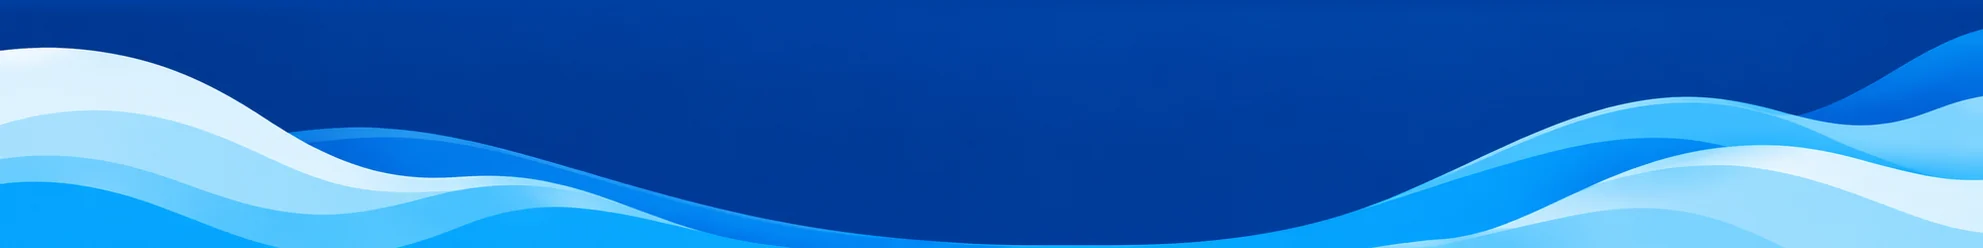
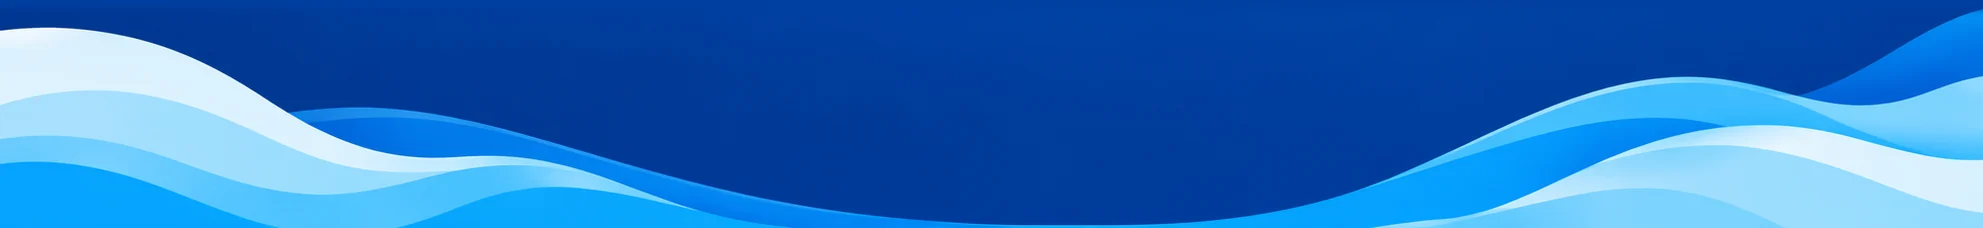
ลดความสูงแถบท้ายเว็บ และเปลี่ยนหัวเรื่องเป็นซานเซอริฟหนา
แถบบนของท้ายเว็บสูง 396px บนจอ 1440 ซึ่งกินพื้นที่เกินความจำเป็น วัดแล้วพบว่า
ส่วนที่ไม่ได้ทำงานคือท้องฟ้าเหนือกลุ่มเมฆ กับน้ำเงินเรียบใต้คลื่นที่ยาวลงไปอีก
140px ทั้งที่สีพื้นของท้ายเว็บรับช่วงต่อได้อยู่แล้ว

ตัดใหม่ตัดทั้งสองส่วนออก แถบบนเหลือ 261px (ลด 34%) แถบล่าง 166px ภาพถ่าย
ภูเขา พระอาทิตย์ และยอยักษ์ยังอยู่ครบ ไม่ได้ครอปตอนแสดงผล จึงไม่มีจอไหนเห็น
ภาพไม่ครบ และเก็บระยะในเนื้อหาท้ายเว็บให้กระชับขึ้นด้วย รวมท้ายเว็บลดจาก 1215
เหลือ 1006px

หัวเรื่องย้ายจาก Noto Serif Thai ไปเป็น IBM Plex Sans Thai น้ำหนัก 600 ซึ่ง
เป็นฟอนต์เดียวกับเนื้อความอยู่แล้ว ทั้งเว็บจึงเหลือตระกูลเดียว และเลิกส่งฟอนต์
เซอริฟสองน้ำหนักที่ไม่มีใครอ้างถึงอีกต่อไป

ผูกชื่อฟอนต์ไว้ในตัวแปร --font-display แทนการเขียนชื่อฟอนต์ซ้ำ 14 จุด ถ้าวัน
หลังอยากลองฟอนต์อื่นจะได้แก้ที่เดียว

59 browser tests + 9 unit tests ผ่าน · axe ไม่มีข้อผิดพลาด

diff --git a/src/app/globals.css b/src/app/globals.css
@@ -48,6 +48,11 @@
   --rule-strong: #b0d0e8;
   --rule-dark: rgba(243, 250, 254, 0.18);
 
+  /* Type — one family throughout, with the display weight carrying the headings.
+     The serif it replaces read as an archive; this reads as the reference. */
+  --font-body: "IBM Plex Sans Thai", "Noto Sans Thai", sans-serif;
+  --font-display: "IBM Plex Sans Thai", "Noto Sans Thai", sans-serif;
+
   /* Shape — the reference rounds every surface and floats it on a soft shadow. */
   --radius: 1rem;
   --radius-sm: .55rem;
@@ -102,7 +107,7 @@ img, svg, video { max-width: 100%; }
 [data-theme="dark"] :focus-visible, .on-dark :focus-visible { outline-color: var(--craft); }
 
 h1, h2, h3, h4, p, figure, dl, dd { margin: 0; }
-h1, h2, h3 { font-family: "Noto Serif Thai", serif; font-weight: 500; }
+h1, h2, h3 { font-family: var(--font-display); font-weight: 600; letter-spacing: -.01em; }
 /* Thai tone and vowel marks stack above and below the baseline, so display line-height
    stays near 1.15 rather than the 0.98 a Latin face would take. */
 h1 { font-size: clamp(2.75rem, 6.5vw, 6rem); line-height: 1.15; letter-spacing: -.02em; }
@@ -218,7 +223,7 @@ body:has(.home-page) .header-spacer { display: none; }
 .wordmark {
   display: inline-flex; flex-direction: column; justify-content: center;
   min-height: 44px; text-decoration: none;
-  font-family: "Noto Serif Thai", serif; font-size: 1.375rem; font-weight: 500; line-height: 1.25;
+  font-family: var(--font-display); font-size: 1.375rem; font-weight: 500; line-height: 1.25;
   letter-spacing: -.01em;
 }
 .wordmark small {
@@ -271,7 +276,7 @@ body:has(.home-page) .header-spacer { display: none; }
 .site-menu-group a {
   display: flex; min-height: 56px; align-items: center; justify-content: space-between; gap: 1rem;
   padding-block: .35rem; border-bottom: 1px solid var(--rule-dark);
-  font-family: "Noto Serif Thai", serif; font-size: clamp(1.375rem, 3.5vw, 1.875rem);
+  font-family: var(--font-display); font-size: clamp(1.375rem, 3.5vw, 1.875rem);
   text-decoration: none;
 }
 .site-menu-group a svg { width: 1.1rem; height: 1.1rem; color: var(--craft); flex: 0 0 auto; }
@@ -316,22 +321,22 @@ body:has(.home-page) .header-spacer { display: none; }
 /* Aspect ratios are the images' own, so each band keeps its proportions at every width
    instead of being squashed by a fixed height. */
 .site-footer-band {
-  aspect-ratio: 1983 / 545;
+  aspect-ratio: 1983 / 360;
   background-image: url("/decor/footer-top.webp");
 }
 .site-footer-foot {
-  aspect-ratio: 1983 / 248;
+  aspect-ratio: 1983 / 228;
   background-image: url("/decor/footer-bottom.webp");
   background-position: center top;
 }
-.site-footer > .shell { padding-block: clamp(2rem, 4vw, 3.5rem) clamp(2rem, 4vw, 3rem); }
+.site-footer > .shell { padding-block: clamp(1.75rem, 3vw, 2.5rem) clamp(1.5rem, 3vw, 2.25rem); }
 
 .site-footer-grid {
   display: grid; grid-template-columns: 1fr; gap: 2.5rem;
-  padding-bottom: 2.5rem; border-bottom: 1px solid var(--rule-dark);
+  padding-bottom: 2rem; border-bottom: 1px solid var(--rule-dark);
 }
 .site-footer-brand p { margin-top: .5rem; color: var(--on-dark-muted); font-size: .9375rem; }
-.site-footer-brand strong { font-family: "Noto Serif Thai", serif; font-size: 1.375rem; font-weight: 500; }
+.site-footer-brand strong { font-family: var(--font-display); font-size: 1.375rem; font-weight: 500; }
 .site-footer nav { display: grid; gap: .1rem; align-content: start; }
 .site-footer nav p { margin-bottom: .6rem; color: var(--craft); font-size: .75rem; letter-spacing: .1em; }
 .site-footer nav a {
@@ -341,7 +346,7 @@ body:has(.home-page) .header-spacer { display: none; }
 .site-footer nav a:hover { color: var(--craft); text-decoration: underline; }
 .site-footer-partners {
   display: grid; gap: .75rem;
-  padding-top: 2rem;
+  padding-top: 1.5rem;
 }
 .site-footer-partners-label { color: var(--craft); font-size: .75rem; letter-spacing: .14em; }
 .site-footer-partners ul {
@@ -349,7 +354,7 @@ body:has(.home-page) .header-spacer { display: none; }
   margin: 0; padding: 0; list-style: none;
 }
 .site-footer-partners li {
-  font-family: "Noto Serif Thai", serif; font-size: 1.0625rem; color: var(--on-dark);
+  font-family: var(--font-display); font-size: 1.0625rem; color: var(--on-dark);
 }
 /* The district centre sits under the provincial office; naming one without the other
    credits the wrong body. */
@@ -359,7 +364,7 @@ body:has(.home-page) .header-spacer { display: none; }
   font-size: .8125rem; color: var(--on-dark-muted);
 }
 .site-footer-legal {
-  display: grid; gap: .5rem; margin-top: 2rem; padding-top: 1.75rem;
+  display: grid; gap: .5rem; margin-top: 1.5rem; padding-top: 1.25rem;
   border-top: 1px solid var(--rule-dark);
   color: var(--on-dark-muted); font-size: .8125rem; line-height: 1.7;
 }
@@ -403,7 +408,7 @@ body:has(.home-page) .header-spacer { display: none; }
 .boat-intro, .explorer { width: min(100% - 3rem, 76rem); margin-inline: auto; }
 .boat-intro { max-width: 58rem; margin-left: max(1.5rem, calc((100% - 76rem) / 2)); }
 .boat-intro > p:not(.eyebrow, .demo-notice) { max-width: 48rem; color: var(--muted); }
-.boat-concept { margin-block: 1rem; font-family: "Noto Serif Thai", serif; font-size: clamp(1.2rem, 2.5vw, 1.75rem); color: var(--accent-text) !important; }
+.boat-concept { margin-block: 1rem; font-family: var(--font-display); font-size: clamp(1.2rem, 2.5vw, 1.75rem); color: var(--accent-text) !important; }
 .demo-notice { display: inline-block; margin-top: 1.5rem; padding: .35rem .7rem; border: 1px solid var(--rule); color: var(--muted); font-size: .8rem; }
 .explorer { margin-top: clamp(4rem, 9vw, 8rem); }
 .explorer-heading { display: grid; grid-template-columns: minmax(14rem, .7fr) 1fr; gap: clamp(1.5rem, 5vw, 7rem); align-items: end; margin-bottom: 1.75rem; }
@@ -432,7 +437,7 @@ body:has(.home-page) .header-spacer { display: none; }
 .panel-close svg { width: 1.15rem; }
 .panel-image { position: relative; aspect-ratio: 16 / 9; margin-bottom: 1.75rem; overflow: hidden; background: var(--surface-warm); }
 .panel-image img { object-fit: cover; }
-.panel-inner h3 { font-family: "Noto Serif Thai", serif; font-size: clamp(1.75rem, 4vw, 2.5rem); font-weight: 500; line-height: 1.45; }
+.panel-inner h3 { font-family: var(--font-display); font-size: clamp(1.75rem, 4vw, 2.5rem); font-weight: 500; line-height: 1.45; }
 .panel-description { margin-top: .75rem; color: var(--muted); }
 .panel-section { margin-top: 2rem; padding-top: 1.25rem; border-top: 1px solid var(--rule); }
 .panel-section h4 { margin: 0 0 .7rem; font-size: .75rem; font-weight: 500; letter-spacing: .06em; color: var(--accent-text); }
@@ -476,7 +481,7 @@ body:has(.home-page) .header-spacer { display: none; }
 .timeline-image img { object-fit: cover; transition: transform .5s ease; }
 .timeline-entry:hover .timeline-image img { transform: scale(1.015); }
 .step-number, .section-kicker { color: var(--accent-text); font-size: .75rem; letter-spacing: .07em; }
-.timeline-copy h3 { margin: .25rem 0 .65rem; font-family: "Noto Serif Thai", serif; font-size: clamp(1.55rem, 3vw, 2.2rem); font-weight: 500; line-height: 1.5; }
+.timeline-copy h3 { margin: .25rem 0 .65rem; font-family: var(--font-display); font-size: clamp(1.55rem, 3vw, 2.2rem); font-weight: 500; line-height: 1.5; }
 .timeline-copy > p:not(.step-number) { color: var(--muted); }
 .step-glance { display: grid; grid-template-columns: 1fr 1fr; gap: 1rem; margin: 1.25rem 0 0; padding-top: 1rem; border-top: 1px solid var(--rule); }
 .step-glance dt { color: var(--accent-text); font-size: .7rem; }
@@ -496,7 +501,7 @@ body:has(.home-page) .header-spacer { display: none; }
 .step-hero-image figcaption { position: absolute; right: .75rem; bottom: .6rem; padding: .2rem .5rem; background: rgba(6,48,111,.88); color: #fff; font-size: .68rem; }
 .step-content-grid { display: grid; grid-template-columns: minmax(14rem, .6fr) 1.6fr; gap: clamp(3rem, 8vw, 9rem); margin-top: clamp(5rem, 10vw, 9rem); }
 .step-context { align-self: start; position: sticky; top: 2rem; padding-top: 1.25rem; border-top: 2px solid var(--accent); }
-.step-context > p:last-child { font-family: "Noto Serif Thai", serif; font-size: clamp(1.2rem, 2vw, 1.55rem); line-height: 1.9; }
+.step-context > p:last-child { font-family: var(--font-display); font-size: clamp(1.2rem, 2vw, 1.55rem); line-height: 1.9; }
 .step-main-content { min-width: 0; }
 .step-section + .step-section { margin-top: clamp(4rem, 9vw, 7rem); }
 .step-section > h2 { margin: .2rem 0 1.5rem; font-size: clamp(1.8rem, 4vw, 3rem); line-height: 1.45; }
@@ -529,7 +534,7 @@ body:has(.home-page) .header-spacer { display: none; }
 .knowledge-connections a { position: relative; display: grid; min-height: 10rem; align-content: end; padding: 1.25rem; background: var(--paper); text-decoration: none; }
 .knowledge-connections a:hover { background: var(--surface-warm); }
 .knowledge-connections span { color: var(--accent-text); font-size: .72rem; }
-.knowledge-connections strong { margin-top: .35rem; font-family: "Noto Serif Thai", serif; font-size: 1.25rem; font-weight: 500; }
+.knowledge-connections strong { margin-top: .35rem; font-family: var(--font-display); font-size: 1.25rem; font-weight: 500; }
 .knowledge-connections small { color: var(--muted); }
 .knowledge-connections svg { position: absolute; top: 1rem; right: 1rem; width: 1rem; }
 .inline-empty { color: var(--muted); }
@@ -756,7 +761,7 @@ body:has(.login-page) > .site-header, body:has(.login-page) > .site-footer, body
 .storage-card[data-level="warn"] .storage-status { color:#8a5a00; }
 .storage-card[data-level="danger"] .storage-status { color:#9a3412; }
 
-.storage-figure { margin-top:1rem; font-family:"Noto Serif Thai",serif; font-size:clamp(2rem,5vw,3rem); font-weight:500; line-height:1.1; }
+.storage-figure { margin-top:1rem; font-family:var(--font-display); font-size:clamp(2rem,5vw,3rem); font-weight:500; line-height:1.1; }
 .storage-figure span { display:block; margin-top:.4rem; font-family:"IBM Plex Sans Thai","Noto Sans Thai",sans-serif; font-size:.875rem; font-weight:400; color:var(--admin-muted); }
 
 .storage-bar { height:.6rem; margin-top:1.25rem; background:#e8e6e0; border-radius:999px; overflow:hidden; }

diff --git a/src/app/archive.css b/src/app/archive.css
@@ -25,7 +25,7 @@
 .archive-quote-block { max-width: 46rem; }
 .archive-quote {
   margin: 0; padding: 0;
-  font-family: "Noto Serif Thai", serif;
+  font-family: var(--font-display);
   font-size: clamp(1.5rem, 3.6vw, 2.5rem);
   font-weight: 500; line-height: 1.45; letter-spacing: -.015em;
   color: var(--foreground); text-wrap: balance;
@@ -65,7 +65,7 @@
 .archive-card-list a { display: grid; gap: .75rem; text-decoration: none; }
 .archive-card-list .media-frame { transition: transform var(--ui) var(--ease); }
 .archive-card-list a:hover .media-frame { transform: scale(1.015); }
-.archive-card-title { font-family: "Noto Serif Thai", serif; font-size: 1.25rem; font-weight: 500; }
+.archive-card-title { font-family: var(--font-display); font-size: 1.25rem; font-weight: 500; }
 .archive-card-meta { color: var(--accent-text); font-size: .8125rem; }
 .archive-card-note { color: var(--muted); font-size: .875rem; }
 
@@ -75,7 +75,7 @@
   gap: .25rem 1rem; min-height: 56px; padding-block: .85rem;
   border-bottom: 1px solid var(--rule); text-decoration: none;
 }
-.archive-link-list span { font-family: "Noto Serif Thai", serif; font-size: 1.125rem; }
+.archive-link-list span { font-family: var(--font-display); font-size: 1.125rem; }
 .archive-link-list small { grid-column: 1; color: var(--muted); font-size: .8125rem; }
 .archive-link-list svg {
   grid-column: 2; grid-row: 1 / -1; width: 1rem; height: 1rem;
@@ -133,7 +133,7 @@
 
 .about-status-list { max-width: 48rem; margin: 1.75rem 0 0; }
 .about-status-list > div { padding-block: 1.25rem; border-bottom: 1px solid var(--rule); }
-.about-status-list dt { font-family: "Noto Serif Thai", serif; font-size: 1.0625rem; font-weight: 500; }
+.about-status-list dt { font-family: var(--font-display); font-size: 1.0625rem; font-weight: 500; }
 .about-status-list dd { margin: .5rem 0 0; color: var(--muted); font-size: .9375rem; line-height: 1.7; }
 
 .about-contacts { margin: 1.75rem 0 0; padding: 0; list-style: none; max-width: 30rem; }
@@ -142,12 +142,12 @@
   gap: .25rem 1.5rem; min-height: 48px; padding-block: .85rem;
   border-bottom: 1px solid var(--rule);
 }
-.about-contacts span { font-family: "Noto Serif Thai", serif; font-size: 1.0625rem; }
+.about-contacts span { font-family: var(--font-display); font-size: 1.0625rem; }
 .about-contacts a { color: var(--accent-text); font-variant-numeric: tabular-nums; text-underline-offset: .3em; }
 
 .about-partner-groups { display: grid; gap: 2rem; margin-top: 1.75rem; }
 .about-partner-group { display: grid; gap: .3rem; padding-bottom: 1.5rem; border-bottom: 1px solid var(--rule); }
-.about-partner-group strong { font-family: "Noto Serif Thai", serif; font-size: 1.125rem; font-weight: 500; }
+.about-partner-group strong { font-family: var(--font-display); font-size: 1.125rem; font-weight: 500; }
 .about-partner-parent { color: var(--muted); font-size: .875rem; }
 .about-partner-role { margin-top: .35rem; color: var(--accent-text); font-size: .875rem; }
 .about-partner-group ul { margin: .85rem 0 0; padding: 0; list-style: none; }
@@ -200,7 +200,7 @@
 .competition-table { width: 100%; min-width: 30rem; border-collapse: collapse; font-size: .9375rem; }
 .competition-table th, .competition-table td { padding: .85rem .75rem; border-bottom: 1px solid var(--rule); text-align: start; }
 .competition-table thead th { border-bottom: 1px solid var(--rule-strong); color: var(--muted); font-size: .8125rem; font-weight: 500; }
-.competition-table tbody th { font-family: "Noto Serif Thai", serif; font-size: 1rem; font-weight: 500; }
+.competition-table tbody th { font-family: var(--font-display); font-size: 1rem; font-weight: 500; }
 .competition-num { text-align: end; font-variant-numeric: tabular-nums; }
 .competition-total { font-weight: 500; }
 .competition-zero { color: var(--rule-strong); }
@@ -212,7 +212,7 @@
 
 .competition-years { margin: 1.75rem 0 0; padding: 0; list-style: none; }
 .competition-year { padding-block: 1.5rem; border-bottom: 1px solid var(--rule); }
-.competition-year h3 { font-family: "Noto Serif Thai", serif; font-size: 1.125rem; font-weight: 500; }
+.competition-year h3 { font-family: var(--font-display); font-size: 1.125rem; font-weight: 500; }
 .competition-places { margin: .9rem 0 0; padding: 0; list-style: none; display: grid; gap: .55rem; }
 .competition-places li { display: flex; align-items: baseline; gap: .75rem; flex-wrap: wrap; }
 .competition-rank {

diff --git a/src/app/learn.css b/src/app/learn.css
@@ -41,7 +41,7 @@
 .learn-lesson-list a:hover svg { transform: translate(.15rem, -.15rem); }
 
 .learn-course-title,
-.learn-lesson-title { font-family: "Noto Serif Thai", serif; font-size: clamp(1.125rem, 2vw, 1.5rem); font-weight: 500; }
+.learn-lesson-title { font-family: var(--font-display); font-size: clamp(1.125rem, 2vw, 1.5rem); font-weight: 500; }
 .learn-course-count { grid-column: 1; color: var(--accent-text); font-size: .8125rem; }
 .learn-course-list .demo-notice { margin-top: .75rem; }
 
@@ -90,7 +90,7 @@
 }
 .lesson-step-title {
   display: inline-flex; align-items: center; gap: .5rem; margin-top: .75rem;
-  font-family: "Noto Serif Thai", serif; font-size: 1.25rem; font-weight: 500; text-decoration: none;
+  font-family: var(--font-display); font-size: 1.25rem; font-weight: 500; text-decoration: none;
 }
 .lesson-step-title svg { width: 1rem; height: 1rem; color: var(--accent-text); transition: transform var(--micro) var(--ease); }
 .lesson-step-title:hover { color: var(--accent-text); }
@@ -112,7 +112,7 @@
 .lesson-quiz-list { margin: 2rem 0 0; padding: 0; list-style: none; }
 .lesson-quiz-item + .lesson-quiz-item { margin-top: 2rem; }
 .lesson-quiz-item fieldset { margin: 0; padding: 0; border: 0; }
-.lesson-quiz-prompt { font-family: "Noto Serif Thai", serif; font-size: 1.125rem; font-weight: 500; line-height: 1.6; }
+.lesson-quiz-prompt { font-family: var(--font-display); font-size: 1.125rem; font-weight: 500; line-height: 1.6; }
 .lesson-quiz-unsupported { margin-top: .6rem; color: var(--muted); font-size: .875rem; }
 
 .lesson-quiz-choices { display: grid; gap: .5rem; margin-top: 1rem; }
@@ -137,7 +137,7 @@
 .lesson-quiz-actions button { display: inline-flex; align-items: center; gap: .5rem; border: 0; cursor: pointer; }
 .lesson-quiz-actions button svg { width: 1rem; height: 1rem; }
 .lesson-quiz-actions button:disabled { opacity: .5; cursor: not-allowed; }
-.lesson-quiz-score { font-family: "Noto Serif Thai", serif; font-size: 1.125rem; }
+.lesson-quiz-score { font-family: var(--font-display); font-size: 1.125rem; }
 .lesson-quiz-remaining { color: var(--muted); font-size: .8125rem; }
 
 /* --- finished + next ------------------------------------------------------ */
@@ -166,7 +166,7 @@
   min-height: 56px; text-decoration: none;
 }
 .lesson-nav-link small { display: block; color: var(--muted); font-size: .75rem; }
-.lesson-nav-link > span { font-family: "Noto Serif Thai", serif; font-size: 1.0625rem; }
+.lesson-nav-link > span { font-family: var(--font-display); font-size: 1.0625rem; }
 .lesson-nav-link svg { flex: none; width: 1.1rem; height: 1.1rem; color: var(--accent-text); transition: transform var(--micro) var(--ease); }
 .lesson-nav-link:hover { color: var(--accent-text); }
 .lesson-nav-link:hover svg { transform: translateX(-.15rem); }

diff --git a/src/app/home.css b/src/app/home.css
@@ -91,7 +91,7 @@
 }
 .home-hero-tagline {
   margin-top: 1.5rem;
-  font-family: "Noto Serif Thai", serif;
+  font-family: var(--font-display);
   font-size: clamp(1.375rem, 4.6vw, 2.125rem);
   font-weight: 500;
   line-height: 1.45;
@@ -138,7 +138,7 @@
 }
 .home-pillars span {
   display: block;
-  font-family: "Noto Serif Thai", serif;
+  font-family: var(--font-display);
   font-size: clamp(2rem, 9vw, 4.5rem);
   font-weight: 500;
   line-height: 1.25;
@@ -246,7 +246,7 @@
 }
 .home-featured-concept {
   margin-top: 1.25rem;
-  font-family: "Noto Serif Thai", serif;
+  font-family: var(--font-display);
   font-size: clamp(1.125rem, 2vw, 1.5rem);
   line-height: 1.6;
   color: var(--craft);
@@ -358,7 +358,7 @@
 .home-reader-panel-text { color: var(--muted); font-size: .9375rem; }
 .home-reader-panel-meaning {
   margin-top: 1rem; padding-left: 1rem; border-left: 2px solid var(--accent);
-  color: var(--foreground); font-family: "Noto Serif Thai", serif; font-size: 1rem; line-height: 1.75;
+  color: var(--foreground); font-family: var(--font-display); font-size: 1rem; line-height: 1.75;
 }
 .home-reader-panel-patterns { margin-top: 1.25rem; color: var(--muted); font-size: .875rem; }
 .home-reader-panel-patterns span {
@@ -500,7 +500,7 @@
 .home-master-kicker { font-family: "IBM Plex Sans Thai", "Noto Sans Thai", sans-serif; font-weight: 500; color: var(--craft); }
 .home-master-quote {
   margin: 1.5rem 0 0; padding: 0;
-  font-family: "Noto Serif Thai", serif;
+  font-family: var(--font-display);
   font-size: clamp(1.75rem, 5vw, 3.25rem);
   font-weight: 500;
   line-height: 1.4;
@@ -553,7 +553,7 @@
 .home-journey li {
   display: grid; grid-template-columns: 3rem minmax(0, 1fr); gap: 1rem; align-items: baseline;
   padding-block: 1rem; border-bottom: 1px solid var(--rule);
-  font-family: "Noto Serif Thai", serif;
+  font-family: var(--font-display);
   font-size: clamp(1.125rem, 2.2vw, 1.5rem);
   line-height: 1.5;
 }
@@ -656,7 +656,7 @@
 }
 .home-closing-lead {
   max-width: 32ch; margin-top: 1.75rem; text-wrap: balance;
-  font-family: "Noto Serif Thai", serif;
+  font-family: var(--font-display);
   font-size: clamp(1.25rem, 3.2vw, 1.875rem);
   line-height: 1.55;
   color: var(--craft);

diff --git a/src/app/exhibition.css b/src/app/exhibition.css
@@ -17,7 +17,7 @@
 }
 .exhibit-tagline {
   margin-top: .85rem;
-  font-family: "Noto Serif Thai", serif;
+  font-family: var(--font-display);
   font-size: clamp(1.125rem, 4.4vw, 1.5rem);
   font-weight: 500;
   color: var(--accent-text);
@@ -61,7 +61,7 @@
 .exhibit-counts dt { color: var(--muted); font-size: .8125rem; line-height: 1.5; }
 .exhibit-counts dd {
   margin: 0;
-  font-family: "Noto Serif Thai", serif;
+  font-family: var(--font-display);
   font-size: clamp(1.75rem, 7vw, 2.5rem); font-weight: 500;
   line-height: 1.1; font-variant-numeric: tabular-nums;
 }
@@ -82,7 +82,7 @@
 .exhibit-doors a:hover { border-color: var(--primary); transform: translateY(-1px); }
 .exhibit-doors a > svg:first-child { width: 1.35rem; height: 1.35rem; color: var(--accent-text); }
 .exhibit-doors span {
-  font-family: "Noto Serif Thai", serif; font-size: 1.0625rem; font-weight: 500;
+  font-family: var(--font-display); font-size: 1.0625rem; font-weight: 500;
 }
 .exhibit-doors small {
   display: block; margin-top: .2rem;
@@ -100,7 +100,7 @@
 .exhibit-credits { padding-top: clamp(2rem, 5vw, 3rem); border-top: 1px solid var(--rule); }
 .exhibit-credit-group { margin-top: 1.5rem; }
 .exhibit-credit-group strong {
-  display: block; font-family: "Noto Serif Thai", serif; font-size: 1rem; font-weight: 500;
+  display: block; font-family: var(--font-display); font-size: 1rem; font-weight: 500;
 }
 .exhibit-credit-group span { display: block; margin-top: .15rem; color: var(--muted); font-size: .8125rem; }
 .exhibit-credit-group p { margin-top: .4rem; color: var(--muted); font-size: .875rem; line-height: 1.7; }

diff --git a/src/app/layout.tsx b/src/app/layout.tsx
@@ -4,8 +4,7 @@ import "@fontsource/ibm-plex-sans-thai/500.css";
 import "@fontsource/ibm-plex-sans-thai/600.css";
 import "@fontsource/noto-sans-thai/400.css";
 import "@fontsource/noto-sans-thai/500.css";
-import "@fontsource/noto-serif-thai/500.css";
-import "@fontsource/noto-serif-thai/600.css";
+import "@fontsource/ibm-plex-sans-thai/700.css";
 import "./globals.css";
 import { SiteFooter } from "@/components/site/site-footer";
 import { SiteHeader } from "@/components/site/site-header";
